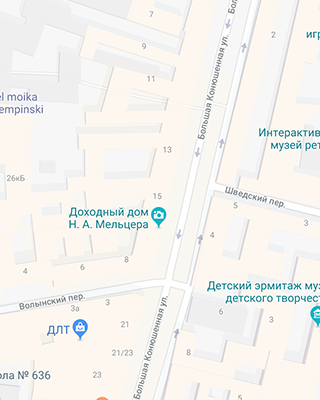
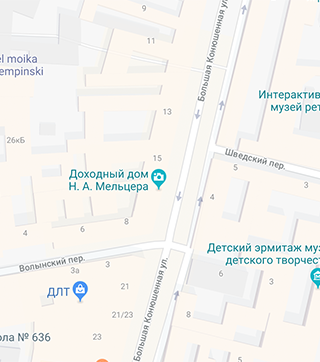
Адаптивная графика Contacts, fix изображений

diff --git a/source/index.html b/source/index.html
@@ -149,7 +149,11 @@
           <p class="contacts__address">ул. Большая Конюшенная, д. 19/8<br><br> Санкт-Петербург</p>
         </div>
         <div class="contacts__map">
-          <img class="contacts__map-image" src="img/bg-map-mobile@1x.png" width="320" height="400" alt="Карта проезда: ул. Большая Конюшенная, д. 19/8, Санкт-Петербург" />
+          <picture>
+            <source media="(min-width: 1440px)" srcset="img/bg-map-desktop@1x.png, img/bg-map-desktop@2x.png 2x" />
+            <source media="(min-width: 768px)" srcset="img/bg-map-tablet@1x.png, img/bg-map-tablet@2x.png 2x" />
+            <img class="contacts__map-image" src="img/bg-map-mobile@1x.png" srcset="img/bg-map-mobile@2x.png 2x" width="320" height="400" alt="Карта проезда: ул. Большая Конюшенная, д. 19/8, Санкт-Петербург" />
+          </picture>
         </div>
       </section>
       <div class="page-footer__wrapper">

diff --git a/source/sass/blocks/contacts.scss b/source/sass/blocks/contacts.scss
@@ -50,8 +50,6 @@
   &__map-image {
     display: block;
     margin: 0 auto;
-
-    height: 362px; /* TODO: Картинки */
   }
 
   @media (min-width: $screen-md) {
@@ -80,8 +78,8 @@
     }
 
     &__map-image {
-      width: 768px; /* TODO: Картинки */
-      height: 400px; /* TODO: Картинки */
+      width: 768px;
+      height: auto;
     }
   }
   @media (min-width: $screen-xl) {
@@ -112,8 +110,7 @@
     }
 
     &__map-image {
-      width: 1440px; /* TODO: Картинки */
-      height: 400px; /* TODO: Картинки */
+      width: 1440px;
     }
   }
 }
